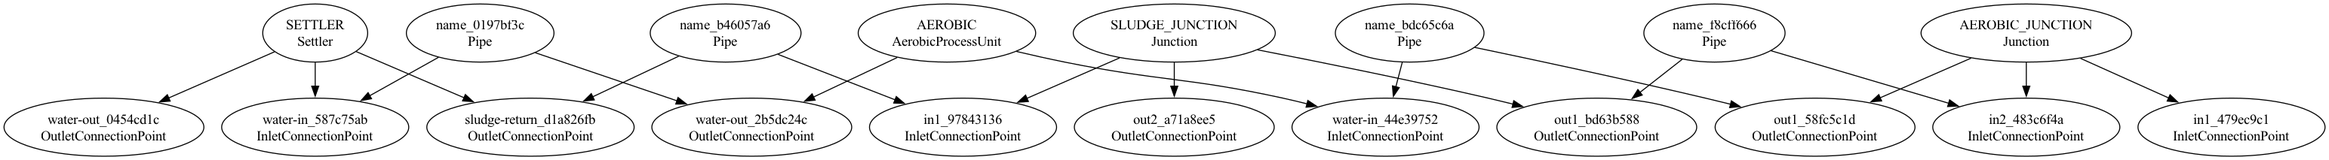
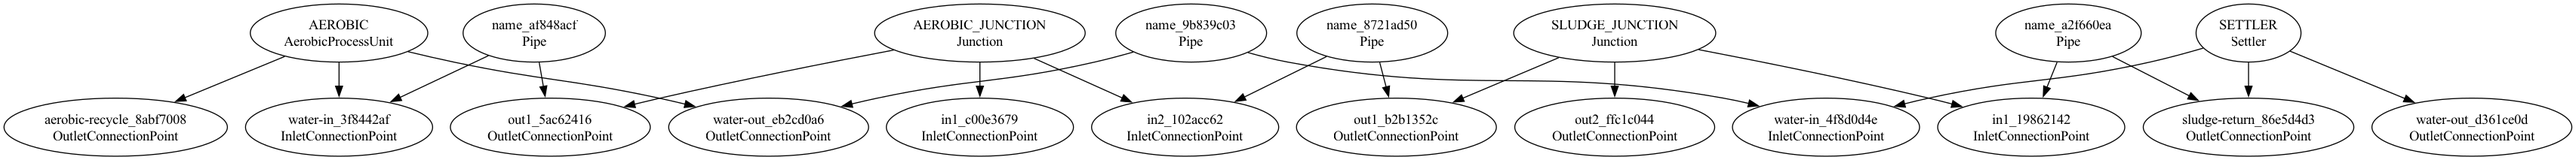
updating models

diff --git a/kv-system-2.py b/kv-system-2.py
@@ -16,6 +16,7 @@ bldg.graph.bind("bldg", BLDG)
 
 nrel = Library.load(directory="BuildingMOTIF/libraries/ashrae/223p/nrel-templates")
 water = Library.load(directory="water-templates")
+s223 = Library.load(ontology_graph="BuildingMOTIF/libraries/ashrae/223p/ontology/223p.ttl")
 
 
 def pipe(from_cp, to_cp):
@@ -58,5 +59,6 @@ pipe(settler_junction["out1"], input_junction["in2"])
 pipe(aerobic["aerobic-recycle"], anoxic["aerobic-recycle"])
 
 bldg.add_graph(ctx.compile())
-bldg.graph.serialize("models/kv2.ttl", format="turtle")
-write_to_file(bldg.graph, "models/kv2.png")
+graph = bldg.compile([s223.get_shape_collection()])
+graph.serialize("models/kv2.ttl", format="turtle")
+write_to_file(graph, "models/kv2.png")

diff --git a/kv-system-1.py b/kv-system-1.py
@@ -16,6 +16,7 @@ bldg.graph.bind("bldg", BLDG)
 
 nrel = Library.load(directory="BuildingMOTIF/libraries/ashrae/223p/nrel-templates")
 water = Library.load(directory="water-templates")
+s223 = Library.load(ontology_graph="BuildingMOTIF/libraries/ashrae/223p/ontology/223p.ttl")
 
 
 def pipe(from_cp, to_cp):
@@ -52,5 +53,6 @@ pipe(aerobic_junction["out1"], aerobic["water-in"])
 pipe(sludge_junction["out1"], aerobic_junction["in2"])
 
 bldg.add_graph(ctx.compile())
-bldg.graph.serialize("models/kv1.ttl", format="turtle")
-write_to_file(bldg.graph, "models/kv1.png")
+graph = bldg.compile([s223.get_shape_collection()])
+graph.serialize("models/kv1.ttl", format="turtle")
+write_to_file(graph, "models/kv1.png")
